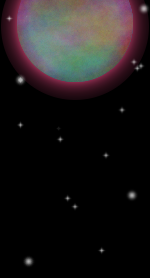
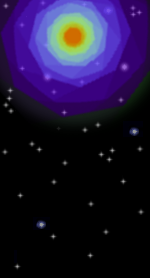
level3 boss

diff --git a/enemy_3_blue_1.cpp b/enemy_3_blue_1.cpp
@@ -1,0 +1,68 @@
+#include "enemy_3_blue_1.h"
+#include "bullet_terminal.h"
+#include <QDebug>
+#include "game.h"
+
+Enemy_3_Blue_1::Enemy_3_Blue_1(QString img, int img_w, int img_h, int show_w, int show_h, Character* player, int health, int radius, int shoot_cd, int shoot_cd_init, double x, double y, double xv, double yv, double xa, double ya, bool bounceable, bool stopable)
+    :Enemy_3_Blue(img,img_w,img_h,show_w,show_h,player,health,radius,shoot_cd,shoot_cd_init,x,y,xv,yv,xa,ya,bounceable,stopable)
+{
+    mode=false;
+}
+void Enemy_3_Blue_1::skill() {
+    //second phase
+    if(health<=160 && !secPhase) {
+        secPhase = true;
+        invulnerable=true;
+        img=":/res/enemy15_2.png";
+        shoot_timer = -420;
+        shoot_cd = 100;
+        skill_timer = -200;
+        emit useSkill("神秘的魔法石");
+    }
+    if(secPhase) {
+        //skill
+        if(skill_timer==0) moveTo(Game::FrameWidth/2-180,200,240);
+        //skill timer
+        if(skill_timer<=0) ++skill_timer;
+    } else {
+        Enemy_3_Blue::skill();
+    }
+}
+std::vector<Bullet*>* Enemy_3_Blue_1::shoot2() {
+    const int interval=12;
+    if(shoot_timer==shoot_cd+200) {
+        if(mode) moveTo(Game::FrameWidth/2-180,200,620);
+        else moveTo(Game::FrameWidth/2+180,200,620);
+    }
+    if((shoot_timer>=shoot_cd && (shoot_timer-shoot_cd)%interval==0)||(shoot_timer==shoot_cd+interval*110+200)) {
+        double bullet_v, bullet_a, cos, sin;
+        int bullet_radius, t;
+        std::vector<Bullet*>* new_bullets=new std::vector<Bullet*>;
+        Bullet* new_bullet;
+        //bullet v, a
+        t = (shoot_timer-shoot_cd)/interval;
+        bullet_radius = 9;
+        if(shoot_timer==shoot_cd) {
+            invulnerable=false;
+            angle = angleofvector(player->getX()-x,player->getY()-y);
+        }
+        //shoot
+        if(shoot_timer<=shoot_cd+interval*110) {
+            for(int i=-3;i<=3;++i) {
+                bullet_v = mode?0.9:1.4;
+                bullet_a = mode?(i+2)*0.00062:i*0.00055-0.0001;
+                cos = std::cos(angle+i*M_PI/24+(mode?-1:1)*t*M_PI/17.7);
+                sin = std::sin(angle+i*M_PI/24+(mode?-1:1)*t*M_PI/17.7);
+                new_bullet = new Bullet_Terminal(":/res/bullet_purple.png",bullet_radius,0.6,x,y,bullet_v*cos,bullet_v*sin,bullet_a*cos,bullet_a*sin);
+                connect(this,SIGNAL(killItsBullets()),new_bullet,SLOT(killItself()));
+                new_bullet->fadein(1800);
+                new_bullets->push_back(new_bullet);
+            }
+        } else if(shoot_timer==shoot_cd+interval*110+200) {
+            shoot_timer = 0;
+            mode=!mode;
+        }
+        return new_bullets;
+    }
+    return NULL;
+}

diff --git a/mainwindow.cpp b/mainwindow.cpp
@@ -863,7 +863,7 @@ void MainWindow::doTick() {
                 newEffectInit(new_effect);
             }
         } else if(tickCheck(9475)) { //9475
-            new_boss = new Enemy_3_Pink_Cross(QString(":/res/enemy14.png"),54,43,150,120,player,35,60,80,50,Game::FrameWidth/2,100);
+            new_boss = new Enemy_3_Pink_Cross(QString(":/res/enemy14.png"),54,43,150,120,player,35,60,110,50,Game::FrameWidth/2,100);
             new_boss->fadein();
             newBossInit(new_boss);
             for(int i=0;i<2;++i) {
@@ -896,18 +896,23 @@ void MainWindow::doTick() {
             fadeoutAni->setEasingCurve(QEasingCurve::OutQuad);
             fadeoutAni->start(QPropertyAnimation::DeleteWhenStopped);
         } else if(tickCheck(10725)) { //10725
-            new_effect = new Effect(QString(":/res/magic.png"),50,50,180,180,350,Game::FrameWidth/2,160,0,0,0,0,true);
+            new_effect = new Effect(QString(":/res/magic.png"),50,50,180,180,350,Game::FrameWidth/2,200,0,0,0,0,true);
             new_effect->setOpacity(0.6);
             new_effect->fadein();
             newEffectInit(new_effect);
         } else if(tickCheck(10925)) { //10925
             ui->BossLives->show();
             ui->BossHealth->setGeometry(100,40,690,30);
-            new_boss = new Enemy_3_Blue(QString(":/res/enemy15.png"),54,55,160,160,player,380,80,30,400,Game::FrameWidth/2,160,0,0,0,0,0,true);
+            new_boss = new Enemy_3_Blue_1(QString(":/res/enemy15.png"),54,55,160,160,player,300,80,50,400,Game::FrameWidth/2,200,0,0,0,0,0,true);
             connect(new_boss,SIGNAL(deadSignal(int,int)),this,SLOT(bossCorpse(int,int)));
             new_boss->fadein(1500);
             newBossInit(new_boss);
             ui->BossLives->setText("5");
+            new_effect = new_boss->showShield(":/res/red_fog.png");
+            newEffectInit(new_effect);
+            new_effect->setOpacity(0);
+            new_effect->setZValue(-2);
+            connect(new_boss,SIGNAL(useSkill(QString)),new_effect,SLOT(setVisible()));
             tickFreeze();
         } else if(tickCheck(11175)) { //11175
             ui->BossLives->setText("4");

diff --git a/enemy_3_blue_1.h b/enemy_3_blue_1.h
@@ -1,0 +1,19 @@
+#ifndef ENEMY_3_BLUE_1_H
+#define ENEMY_3_BLUE_1_H
+
+#include "enemy_3_blue.h"
+#include <QString>
+#include <vector>
+
+class Enemy_3_Blue_1 : public Enemy_3_Blue
+{
+public:
+    Enemy_3_Blue_1(QString img, int img_w, int img_h, int show_w, int show_h, Character* player, int health, int radius, int shoot_cd, int shoot_cd_init, double x=0, double y=0, double xv=0, double yv=0, double xa=0, double ya=0, bool bounceable=false, bool stopable=false);
+    void skill();
+    std::vector<Bullet*>* shoot2();
+private:
+    bool mode;
+    double angle;
+};
+
+#endif // ENEMY_3_BLUE_1_H

diff --git a/enemy_3_blue.cpp b/enemy_3_blue.cpp
@@ -9,6 +9,15 @@ Enemy_3_Blue::Enemy_3_Blue(QString img, int img_w, int img_h, int show_w, int sh
     mode=false;
     setInvulnerable();
     skill_timer=-200-shoot_cd_init;
+    boss=true;
+    connect(this,SIGNAL(useSkill(QString)),this,SIGNAL(killItsBullets()));
+    connect(this,SIGNAL(deadSignal()),this,SIGNAL(killItsBullets()));
+    connect(this,SIGNAL(deadSignal()),this,SLOT(deadSet()));
+    fadein(250);
+}
+void Enemy_3_Blue::deadSet() {
+    emit deadSignal(x,y);
+    emit useSkill("");
 }
 void Enemy_3_Blue::skill() {
     const int interval = 700;

diff --git a/enemy_3_blue.h b/enemy_3_blue.h
@@ -5,10 +5,13 @@
 
 class Enemy_3_Blue: public Enemy_3
 {
+    Q_OBJECT
 public:
     Enemy_3_Blue(QString img, int img_w, int img_h, int show_w, int show_h, Character* player, int health, int radius, int shoot_cd, int shoot_cd_init, double x=0, double y=0, double xv=0, double yv=0, double xa=0, double ya=0, bool bounceable=false, bool stopable=false);
     std::vector<Bullet*>* shoot();
     virtual void skill();
+public slots:
+    void deadSet();
 private:
     double angle;
     bool mode;

diff --git a/effect.h b/effect.h
@@ -5,11 +5,13 @@
 
 class Effect : public Character
 {
+    Q_OBJECT
 public:
     Effect(QString img, int img_w, int img_h, int show_w, int show_h, int lifetime=250, double x=0, double y=0, double xv=0, double yv=0, double xa=0, double ya=0, bool autoFadeoutBeforeDie=false);
     void rotateStart();
 public slots:
     virtual void move();
+    void setVisible();
 protected:
     int lifetimer;
     unsigned int angle;

diff --git a/enemy.cpp b/enemy.cpp
@@ -37,8 +37,8 @@ std::vector<Bullet*>* Enemy::shoot2() {
     if(shoot_timer>=shoot_cd) shoot_timer = 0;
     return NULL;
 }
-Shield* Enemy::showShield() {
-    shield = new Shield(QString(":/res/shield2.png"),70,70,radius*3.2,radius*3.2,this,-1,x,y);
+Shield* Enemy::showShield(QString str) {
+    shield = new Shield(str,70,70,radius*3.2,radius*3.2,this,-1,x,y);
     return shield;
 }
 void Enemy::move() {

diff --git a/enemy.h b/enemy.h
@@ -19,7 +19,7 @@ public:
     bool isSecPhase() const;
     virtual Effect* disappear() const;
     void setDisappearTime(int disappearTime);
-    Shield* showShield();
+    Shield* showShield(QString str=":/res/shield2.png");
     ~Enemy();
 public slots:
     virtual void move();

diff --git a/effect.cpp b/effect.cpp
@@ -26,6 +26,9 @@ void Effect::move() {
     if(lifetimer==62 && autoFadeoutBeforeDie) fadeout();
     if(lifetimer==0) delete this;
 }
+void Effect::setVisible() {
+    this->setOpacity(1);
+}
 void Effect::rotateStart() {
     rotating=true;
 }

diff --git a/mainwindow.h b/mainwindow.h
@@ -32,7 +32,7 @@
 #include "enemy_3_yellow.h"
 #include "enemy_3_pink.h"
 #include "enemy_3_pink_cross.h"
-#include "enemy_3_blue.h"
+#include "enemy_3_blue_1.h"
 #include <QKeyEvent>
 #include <vector>
 #include "flash.h"
